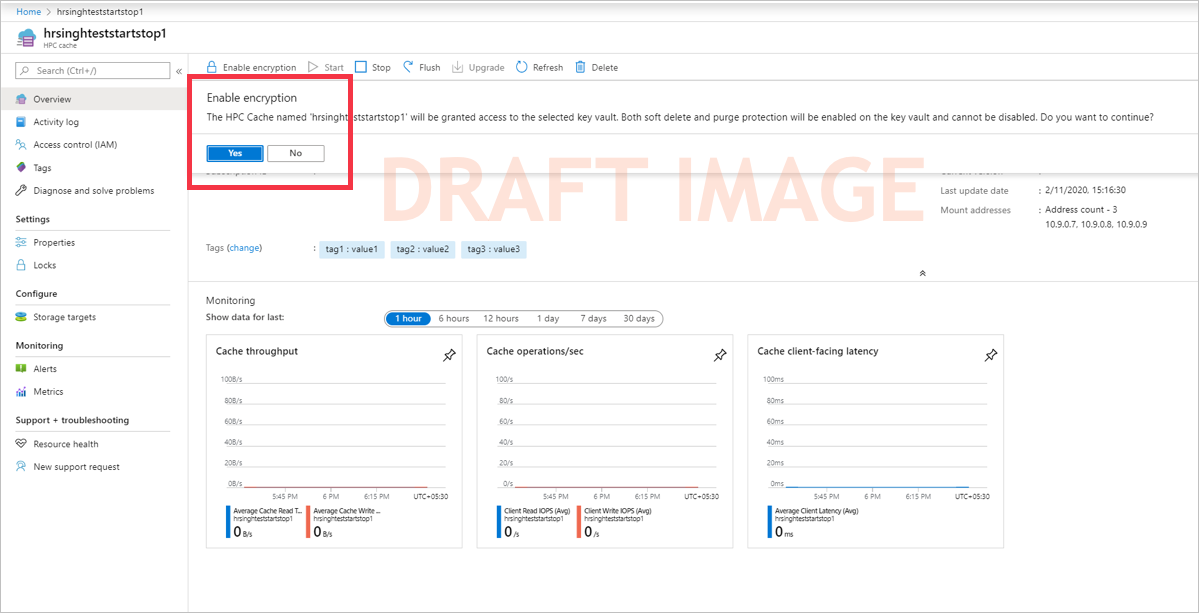
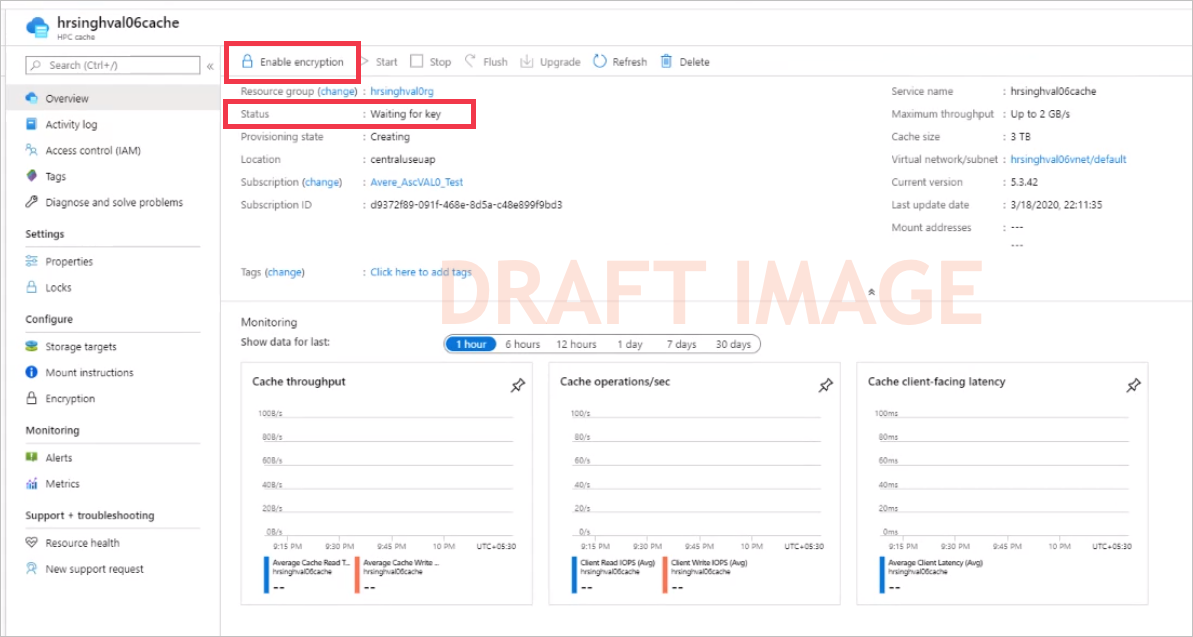
hpc-cache: updates to cmk files

diff --git a/articles/hpc-cache/customer-keys.md b/articles/hpc-cache/customer-keys.md
@@ -4,7 +4,7 @@ description: How to use Azure Key Vault with Azure HPC Cache to control encrypti
 author: ekpgh
 ms.service: hpc-cache
 ms.topic: conceptual
-ms.date: 03/15/2020
+ms.date: 03/19/2020
 ms.author: rohogue
 ---
 
@@ -13,7 +13,7 @@ ms.author: rohogue
 You can use Azure Key Vault to control ownership of the keys used to encrypt your data in Azure HPC Cache. This article explains how to use customer-managed keys for cache data encryption.
 
 > [!NOTE]
-> All data stored in Azure, including on the cache disks, is encrypted at rest with Microsoft-managed keys by default. You only need to follow the steps in this article if you want to manage the keys used to encrypt your data.
+> All data stored in Azure, including on the cache disks, is encrypted at rest using Microsoft-managed keys by default. You only need to follow the steps in this article if you want to manage the keys used to encrypt your data.
 
 This feature is available only in these Azure regions:
 
@@ -29,37 +29,56 @@ There are three steps to enable customer-managed key encryption for Azure HPC Ca
 
 Encryption is not completely set up until after you authorize it from the newly created cache (step 3). This is because you must pass the cache's identity to the key vault to make it an authorized user. You can't do this before creating the cache, because the identity does not exist until the cache is created.
 
+After you create the cache, you cannot change between customer-managed keys and Microsoft-managed keys. However, if your cache uses customer-managed keys you can change the encryption key, the key version, and the key vault as needed.
+
+## Understand key vault and key requirements
+
+The key vault and key must meet these requirements to work with Azure HPC Cache.
+
+Key vault properties:
+
+* **Subscription** - Use the same subscription that is used for the cache.
+* **Region** - The key vault must be in the same region as the Azure HPC Cache.
+* **Pricing tier** - Standard tier is sufficient for use with Azure HPC Cache.
+* **Soft delete** - Azure HPC Cache will enable soft delete if it is not already configured on the key vault.
+* **Purge protection** - Azure HPC Cache will enable purge protection if it is not already active.
+* **Access policy** - Default settings are sufficient.
+* **Network connectivity** - Azure HPC Cache must be able to access the key vault regardless of the endpoint settings you choose.
+
+Key properties:
+
+* **Key type** - RSA
+* **RSA key size** - 2048
+* **Enabled** - Yes
+
+Key vault access permissions:
+
+* The user that creates the Azure HPC Cache must have permissions equivalent to the [Key Vault contributor role](../role-based-access-control/built-in-roles.md#key-vault-contributor).
+
 ## 1. Set up Azure Key Vault
 
+You can set up a key vault and key before you create the cache, or do it as part of cache creation.
+
 Before you create the Azure HPC Cache, set up an Azure Key Vault system and import or create the key you want to use for the cache's encryption. An Azure Key Vault administrator must set up these resources.
+
+Read the [Azure Key Vault documentation](../key-vault/key-vault-overview.md) for details.
 
 > [!NOTE]
 > The Azure Key Vault must share the same subscription and be in the same region as the Azure HPC Cache. Use one of the supported regions listed at the beginning of this article.
 
-Read the [Azure Key Vault documentation](../key-vault/key-vault-overview.md) for details.
-
-If creating a new key vault for Azure HPC Cache, use these settings:
-
-* **Subscription** - Use the same subscription that will be used for the cache.
-* **Region** - The key vault must be in the same region as the Azure HPC Cache.
-* **Pricing tier** - Standard is sufficient for use with Azure HPC Cache.
-* **Soft delete** - Azure HPC Cache will enable soft delete if it is not already configured on the key vault.
-* **Purge protection** - Azure HPC Cache will enable purge protection if it is not already active.
-* **Access policy** - Default settings are sufficient.
-* **Networking** - Azure HPC Cache must be able to access the key vault regardless of the endpoint settings you choose.
 
 ## 2. Create the cache with customer-managed keys enabled
 
-After you have prepared a key vault and key, create your Azure HPC Cache. Follow the instructions in [Create an Azure HPC Cache](hpc-cache-create.md), and specify the key vault and key in the **Disk encryption keys** page.
+You must specify the encryption key source when you create your Azure HPC Cache. Follow the instructions in [Create an Azure HPC Cache](hpc-cache-create.md), and specify the key vault and key in the **Disk encryption keys** page. You can create a new key vault and key during cache creation.
 
 > [!TIP]
 > If the **Disk encryption keys** page does not appear, make sure that your cache is in one of the supported regions.
 
 The user who creates the cache must have privileges equal to the [Key Vault contributor role](../role-based-access-control/built-in-roles.md#key-vault-contributor) or higher.
 
-1. Click the button to enable privately managed keys. After you change this setting, the key vault settings appear.
+1. Click the button to enable privately managed keys. After you change this setting, the key vault settings appear. <!-- double check if this is true -->
 
-1. Select a key vault from the list.
+1. Click **Select a key vault** to open the key selection page. Choose or create the key vault and key for encrypting data on this cache's disks.
 
    If your Azure Key Vault does not appear in the list, check these requirements:
 
@@ -67,7 +86,7 @@ The user who creates the cache must have privileges equal to the [Key Vault cont
    * Is the cache in the same region as the key vault?
    * Is there network connectivity between the Azure portal and the key vault?
 
-1. After selecting a vault, select the individual key from the available options. The key must be a 2048-bit RSA key.
+1. After selecting a vault, select the individual key from the available options, or create a new key. The key must be a 2048-bit RSA key.
 
 1. Specify the version for the selected key. Learn more about versioning in the [Azure Key Vault documentation](../key-vault/about-keys-secrets-and-certificates.md#objects-identifiers-and-versioning).
 
@@ -78,15 +97,22 @@ Continue with the rest of the specifications and create the cache as described i
 
 After a few minutes, the new Azure HPC Cache appears in your Azure Portal. Go to the **Overview** page to authorize it to access your Azure Key Vault and enable customer-managed key encryption.
 
-A notification appears on the **Overview** page if encryption was configured during creation but has not yet been enabled from the cache. Click the **Yes** button to authorize the cache to use the encryption key. This action also enables soft-delete and purge protection on the key vault.
+This two-step process is necessary because the Azure HPC Cache instance needs an identity to pass to the Azure Key Vault for authorization. The cache identity doesn't exist until after its initial creation steps are complete.
+
+> [!NOTE]
+> You must authorize encryption within 90 minutes after creating the cache. If you don't complete this step, the cache will time out and fail. A failed cache has to be re-created, it can't be fixed.
+
+The cache shows the status **Waiting for key**. Click the **Enable encryption** button at the top of the page to authorize the cache to access the specified key vault.
 
 ![screenshot of cache overview page in portal, with a banner message at the top that asks the user to enable encryption by clicking yes](media/draft-enable-keyvault.png)
 
-This two-step process is necessary because the Azure HPC Cache instance needs an identity to pass to the Azure Key Vault for authorization. The cache identity doesn't exist until after its initial creation steps are complete.
+Click the **Yes** button to authorize the cache to use the encryption key. This action also enables soft-delete and purge protection on the key vault.
+
+![screenshot of cache overview page in portal, with a banner message at the top that asks the user to enable encryption by clicking yes](media/draft-enable-keyvault-banner.png)
 
 After the cache requests access to the key vault, it can create and encrypt the disks that store cached data.
 
-After you authorize the encryption, Azure HPC Cache goes through several more minutes of setup to create the encrypted disks and related infrastructure.
+After you authorize encryption, Azure HPC Cache goes through several more minutes of setup to create the encrypted disks and related infrastructure.
 
 <!-- add info about rotating keys when it's available -->
 

diff --git a/articles/hpc-cache/hpc-cache-create.md b/articles/hpc-cache/hpc-cache-create.md
@@ -4,7 +4,7 @@ description: How to create an Azure HPC Cache instance
 author: ekpgh
 ms.service: hpc-cache
 ms.topic: tutorial
-ms.date: 03/15/2020
+ms.date: 03/19/2020
 ms.author: rohogue
 ---
 
@@ -48,7 +48,7 @@ Azure HPC Cache manages which files are cached and preloaded to maximize cache h
 
 ## Enable Azure Key Vault encryption (optional)
 
-If your cache is in a region that supports customer-managed encryption keys, the **Disk encryption keys** page appears between the **Cache** and **Tags** tabs. As of publication time, the option is supported in East US, South Central US, and West US 2.
+If your cache is in a region that supports customer-managed encryption keys, the **Disk encryption keys** page appears between the **Cache** and **Tags** tabs. As of publication time, this option is supported in East US, South Central US, and West US 2.
 
 If you want to manage the encryption keys used with your cache storage, supply your Azure Key Vault information on the **Disk encryption keys** page. The key vault must be in the same region and in the same subscription as the cache.
 
@@ -57,14 +57,15 @@ You can skip this section if you do not need customer-managed keys. Azure encryp
 > [!NOTE]
 >
 > * You cannot change between Microsoft-managed keys and customer-managed keys after creating the cache.
-> * After the cache is created, you must authorize it to access the key vault. A banner message appears in the cache's **Overview** page to prompt you to turn on encryption.
+> * After the cache is created, you must authorize it to access the key vault. Click the **Enable encryption** button in the cache's **Overview** page to turn on encryption. Take this step within 90 minutes of creating the cache.
 > * Cache disks are created after this authorization. This means that the initial cache creation time is short, but the cache will not be ready to use for ten minutes or more after you authorize access.
 
 For a complete explanation of the customer-managed key encryption process, read [Use customer-managed encryption keys for Azure HPC Cache](customer-keys.md).
 
-![screenshot of encryption keys page with "enabled" selected and key vault fields showing](media/draft-hpc-create-keyvault.png)
+![screenshot of encryption keys page with "customer managed" selected and key vault fields showing](media/draft-hpc-create-keyvault.png)
 
-Click the **Enable** button to choose customer-managed key encryption. <!-- **[ xxx - button name might change? - xxx ]** --> The key vault specification fields appear. Select the Azure Key Vault to use, then select the key and version to use for this cache. The key must be a 2048-bit RSA key.
+Select **Customer managed** to choose customer-managed key encryption. The key vault specification fields appear.<!-- double check --> Select the Azure Key Vault to use, then select the key and version to use for this cache. The key must be a 2048-bit RSA key. You can create a new key vault, key, or version from this page.
+<!-- + screenshot of key create/select page -->
 
 After you create the cache, you must authorize it to use the key vault service. Read [Authorize Azure Key Vault encryption from the cache](customer-keys.md#3-authorize-azure-key-vault-encryption-from-the-cache) for details.
 

diff --git a/articles/hpc-cache/configuration.md b/articles/hpc-cache/configuration.md
@@ -4,7 +4,7 @@ description: Explains how to configure additional settings for the cache like MT
 author: ekpgh
 ms.service: hpc-cache
 ms.topic: conceptual
-ms.date: 03/18/2020
+ms.date: 03/19/2020
 ms.author: rohogue
 ---
 
@@ -21,9 +21,16 @@ To see the settings, open the cache's **Configuration** page in the Azure portal
 ## Adjust MTU value
 <!-- linked from troubleshoot-nas article -->
 
-You can select the maximum transmission unit size by using the drop-down menu labeled **MTU size**.
+You can select the maximum transmission unit size for the cache by using the drop-down menu labeled **MTU size**.
 
-The default value is 1500, but if your cache traffic uses a VPN you might need to change it to 1400 to work around packet size restrictions. Read [Adjust VPN packet size restrictions](troubleshoot-nas.md#adjust-vpn-packet-size-restrictions) in the NAS troubleshooting article to learn more.
+The default value is 1500 bytes, but you can change it to 1400.
+
+> [!NOTE]
+> If your back-end storage system sends packets larger than the cache's MTU setting, those packets might be blocked.
+
+Lowering the cache MTU value can help you work around packet size restrictions in the rest of the cache's network. For example, some VPNs can't handle full-size 1500 byte packets. If you can set both the back-end system's MTU and the cache's MTU to send smaller packets, that can eliminate the VPN size issue.
+
+On the other hand, if you can't control the size of the storage system's packets, you should research another solution. Using MSS clamping on the VPN might help. Read [Adjust VPN packet size restrictions](troubleshoot-nas.md#adjust-vpn-packet-size-restrictions) in the NAS troubleshooting article to learn more about diagnosing and addressing this problem.
 
 ## Configure root squash
 <!-- linked from troubleshoot -->

diff --git a/articles/hpc-cache/troubleshoot-nas.md b/articles/hpc-cache/troubleshoot-nas.md
@@ -130,7 +130,7 @@ There isn't a simple way to tell whether or not your system has this problem unl
 
 To fix the problem, you might need to configure MSS clamping on the VPN to make the remote system properly detect the maximum frame size. Read the [VPN Gateway IPsec/IKE parameters documentation](../vpn-gateway/vpn-gateway-about-vpn-devices.md#ipsec) to learn more.
 
-In some cases, changing the MTU setting for the Azure HPC Cache to 1400 can help. However, if your back-end storage system sends packets larger than 1400 bytes, the cache will reject these packets. Read [Configure additional Azure HPC Cache settings](configuration.md) for details.
+In some cases, changing the MTU setting for the Azure HPC Cache to 1400 can help. However, if your back-end storage system sends packets larger than 1400 bytes, the cache will reject these packets. Read [Configure additional Azure HPC Cache settings](configuration.md#adjust-mtu-value) for details.
 
 ## Check for ACL security style
 
